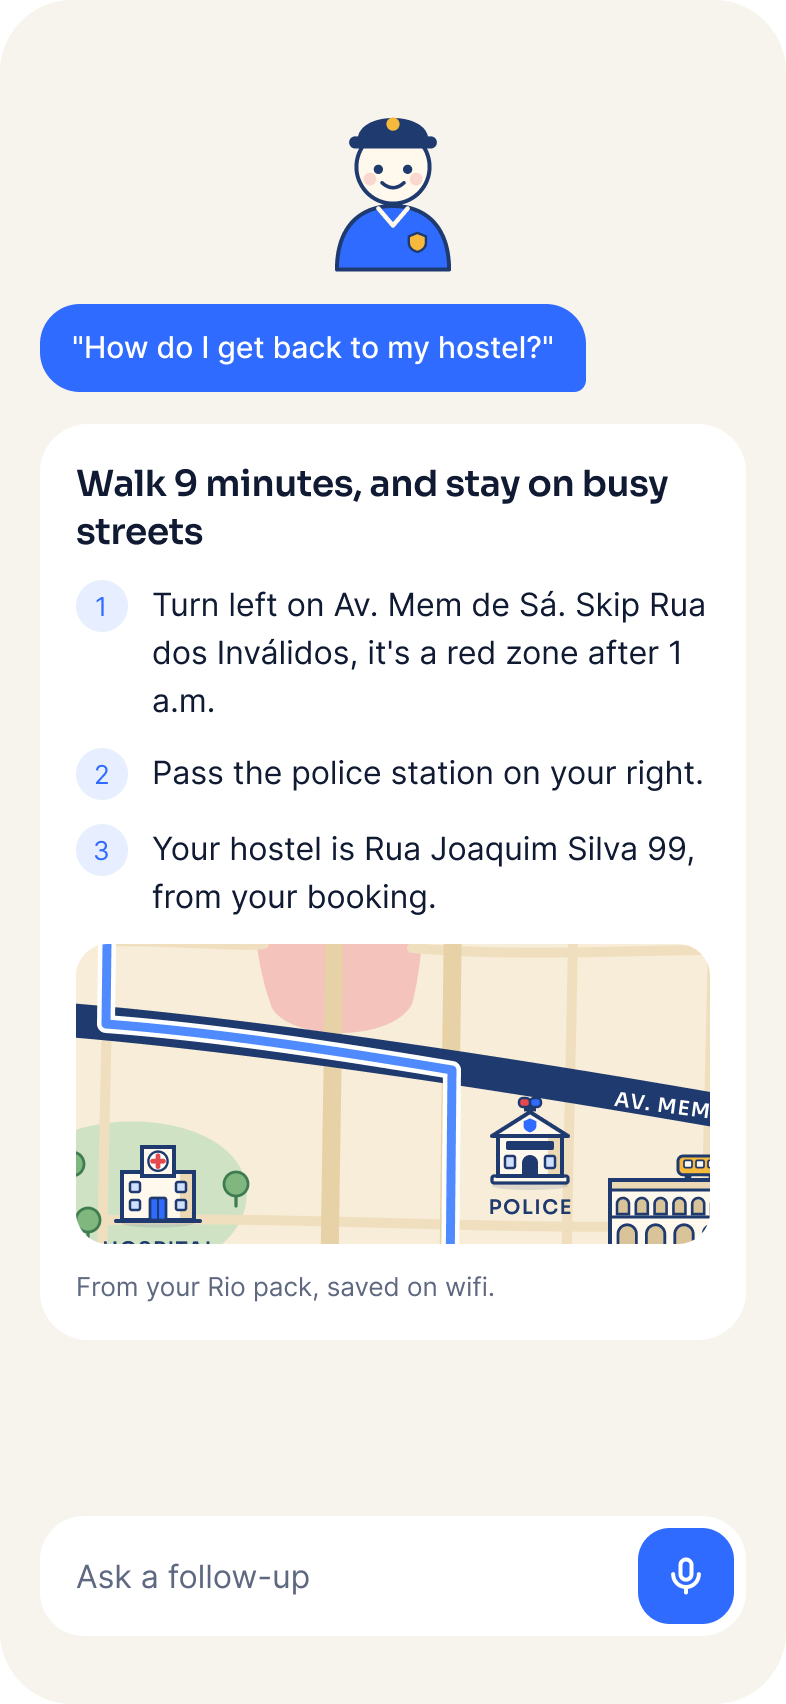
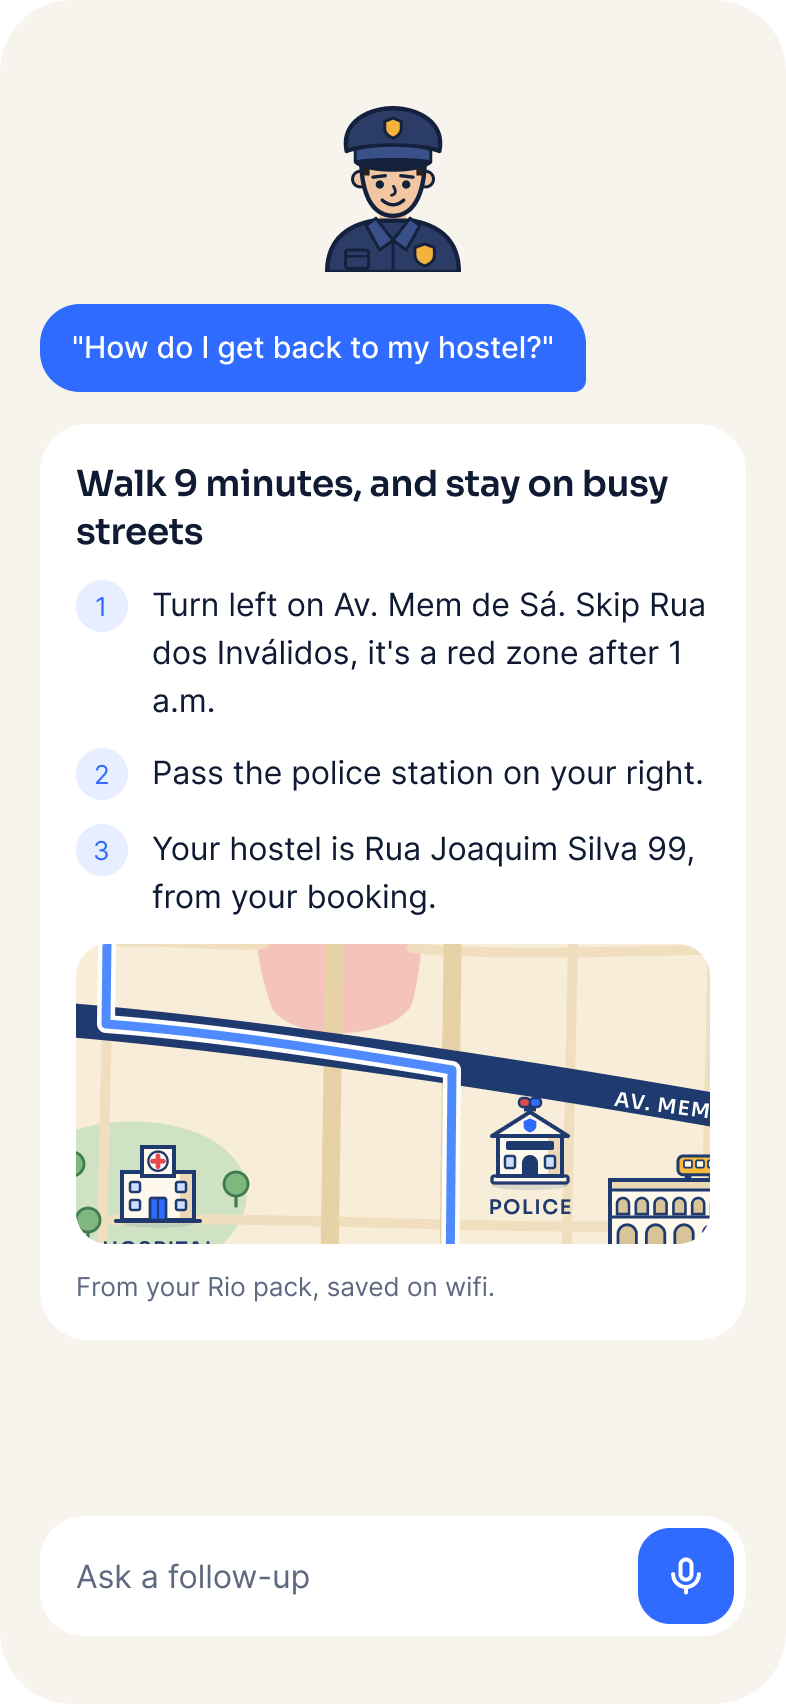
Chat with Beacon: cartoon cop, follow-ups, no subheadlines
- Ask Beacon is now a chat: bubbles, ready-made questions, and the last two
  exchanges are sent with each question so follow-ups make sense.
- BeaconCop: a classic cartoon police officer drawn in Compose (peaked cap,
  navy uniform, gold badges). He bobs, blinks, looks up while thinking and
  moves his mouth while answering. Tap him to hear the answer (device/Speaker,
  the phone's own text-to-speech, works offline).
- Remove screen subheadlines (onboarding steps, SOS sent).
- docs/design/cop: the cop's first-frame picture used for the ElevenLabs test.
- Demo page: updated screens.
- Tests: 45 passing (new: follow-ups carry the last two exchanges).

Changed region(s): [[0.3969, 0.0622, 0.5802, 0.1866]]

diff --git a/app/src/main/java/app/homeward/features/ask/BeaconCop.kt b/app/src/main/java/app/homeward/features/ask/BeaconCop.kt
@@ -29,8 +29,9 @@ import kotlin.math.sin
 // What the cop is doing right now.
 enum class CopMood { Idle, Thinking, Talking }
 
-// Beacon's face in the chat: a small friendly police officer, drawn in the same line style as the map
-// (Figma "Character/Beacon cop"). It is drawn here, piece by piece, so the pieces can move:
+// Beacon's face in the chat: a classic cartoon police officer (peaked cap with a gold badge, navy shirt
+// with a collar, pocket and badge, dark outlines), with a friendly face. Figma: "Character/Beacon cop".
+// It is drawn here, piece by piece, so it stays sharp at any size and the pieces can move:
 //   always   -> a gentle bob, and a blink every few seconds
 //   Thinking -> the eyes look up and three dots bounce
 //   Talking  -> the mouth opens and closes
@@ -43,52 +44,73 @@ fun BeaconCop(mood: CopMood, size: Dp = 88.dp, modifier: Modifier = Modifier) {
     val talk by loop.animateFloat(0f, 1f, infiniteRepeatable(tween(260, easing = LinearEasing)), label = "talk")
     val dots by loop.animateFloat(0f, 1f, infiniteRepeatable(tween(900, easing = LinearEasing)), label = "dots")
 
-    val navy = HomewardColors.MapNavy
-    val cream = Color(0xFFFFF8EC)
+    val line = Color(0xFF14213D)      // dark outline
+    val uniform = Color(0xFF2B3D66)   // navy shirt and cap
+    val uniformLight = Color(0xFF3A5088)
+    val skin = Color(0xFFF2C6A0)
+    val hair = Color(0xFF2B2118)
+    val gold = Color(0xFFF2B33D)
     Canvas(modifier.size(size * 64f / 72f, size)) {
         val unit = this.size.height / 72f
         scale(unit, unit, pivot = Offset.Zero) {
             translate(top = sin(bob * 2 * Math.PI).toFloat() * 0.8f) {
-                // Uniform
-                val body = Path().apply { moveTo(9f, 71f); cubicTo(9f, 53f, 19f, 45f, 32f, 45f); cubicTo(45f, 45f, 55f, 53f, 55f, 71f); close() }
-                drawPath(body, HomewardColors.Primary)
-                drawPath(body, navy, style = Stroke(2f, join = StrokeJoin.Round))
-                drawPath(Path().apply { moveTo(26f, 46f); lineTo(32f, 53f); lineTo(38f, 46f) }, cream, style = Stroke(2.2f, cap = StrokeCap.Round, join = StrokeJoin.Round))
-                // Badge on the chest
-                val badge = Path().apply { moveTo(42f, 56f); lineTo(45.5f, 57.4f); lineTo(45.5f, 60f); cubicTo(45.5f, 62f, 44f, 63.2f, 42f, 63.8f); cubicTo(40f, 63.2f, 38.5f, 62f, 38.5f, 60f); lineTo(38.5f, 57.4f); close() }
-                drawPath(badge, Color(0xFFF6B93B)); drawPath(badge, navy, style = Stroke(1.2f, join = StrokeJoin.Round))
+                val outline = Stroke(2.2f, cap = StrokeCap.Round, join = StrokeJoin.Round)
+                val thin = Stroke(1.5f, cap = StrokeCap.Round, join = StrokeJoin.Round)
 
-                // Head
-                drawCircle(cream, 15f, Offset(32f, 29f)); drawCircle(navy, 15f, Offset(32f, 29f), style = Stroke(2f))
-                // Cap
-                drawPath(Path().apply { moveTo(17.5f, 18f); cubicTo(17.5f, 6f, 46.5f, 6f, 46.5f, 18f); close() }, navy)
-                drawRoundRect(navy, Offset(14f, 16.5f), Size(36f, 5f), CornerRadius(2.5f))
-                drawCircle(Color(0xFFF6B93B), 2.7f, Offset(32f, 11.5f))
+                // Neck, then the uniform shirt over it
+                drawRect(skin, Offset(26.5f, 44f), Size(11f, 10f))
+                val shirt = Path().apply { moveTo(5f, 72f); cubicTo(5f, 59f, 13f, 53f, 24f, 51f); lineTo(40f, 51f); cubicTo(51f, 53f, 59f, 59f, 59f, 72f); close() }
+                drawPath(shirt, uniform); drawPath(shirt, line, style = outline)
+                drawLine(line, Offset(32f, 59f), Offset(32f, 72f), strokeWidth = 1.5f)
+                // Collar
+                val collarLeft = Path().apply { moveTo(25f, 50f); lineTo(32f, 59f); lineTo(26.5f, 63f); lineTo(21f, 53f); close() }
+                val collarRight = Path().apply { moveTo(39f, 50f); lineTo(32f, 59f); lineTo(37.5f, 63f); lineTo(43f, 53f); close() }
+                listOf(collarLeft, collarRight).forEach { drawPath(it, uniformLight); drawPath(it, line, style = thin) }
+                // Chest pocket and gold badge
+                drawRoundRect(line, Offset(12.5f, 63f), Size(9.5f, 7.5f), CornerRadius(1f), style = thin)
+                drawLine(line, Offset(12.5f, 65.6f), Offset(22f, 65.6f), strokeWidth = 1.2f)
+                val badge = Path().apply { moveTo(45f, 60.5f); lineTo(49f, 62f); lineTo(49f, 65f); cubicTo(49f, 67.4f, 47.2f, 68.8f, 45f, 69.5f); cubicTo(42.8f, 68.8f, 41f, 67.4f, 41f, 65f); lineTo(41f, 62f); close() }
+                drawPath(badge, gold); drawPath(badge, line, style = thin)
 
-                // Eyes: closed for a moment at the end of each blink cycle; looking up while thinking
+                // Ears, head, sideburns
+                listOf(18.6f, 45.4f).forEach { x -> drawCircle(skin, 3.2f, Offset(x, 34f)); drawCircle(line, 3.2f, Offset(x, 34f), style = thin) }
+                val head = Path().apply { moveTo(19f, 26f); cubicTo(19f, 41f, 24f, 49f, 32f, 49f); cubicTo(40f, 49f, 45f, 41f, 45f, 26f); close() }
+                drawPath(head, skin); drawPath(head, line, style = outline)
+                drawRect(hair, Offset(19.8f, 26f), Size(2.6f, 6.5f)); drawRect(hair, Offset(41.6f, 26f), Size(2.6f, 6.5f))
+
+                // Peaked cap: wide crown, band, dark visor, gold badge
+                val crown = Path().apply { moveTo(13f, 22.5f); cubicTo(10.5f, 10f, 23f, 5f, 32f, 5f); cubicTo(41f, 5f, 53.5f, 10f, 51f, 22.5f); cubicTo(44f, 19.5f, 20f, 19.5f, 13f, 22.5f); close() }
+                drawPath(crown, uniform); drawPath(crown, line, style = outline)
+                val band = Path().apply { moveTo(16.5f, 22f); cubicTo(22f, 19.6f, 42f, 19.6f, 47.5f, 22f); lineTo(47.5f, 27f); lineTo(16.5f, 27f); close() }
+                drawPath(band, uniformLight); drawPath(band, line, style = thin)
+                val visor = Path().apply { moveTo(16.5f, 27f); cubicTo(21f, 31.5f, 43f, 31.5f, 47.5f, 27f); cubicTo(42f, 25.6f, 22f, 25.6f, 16.5f, 27f); close() }
+                drawPath(visor, line); drawPath(visor, line, style = thin)
+                val capBadge = Path().apply { moveTo(32f, 9f); lineTo(35.4f, 10.4f); lineTo(35.4f, 13.2f); cubicTo(35.4f, 15.2f, 33.9f, 16.5f, 32f, 17.2f); cubicTo(30.1f, 16.5f, 28.6f, 15.2f, 28.6f, 13.2f); lineTo(28.6f, 10.4f); close() }
+                drawPath(capBadge, gold); drawPath(capBadge, line, style = thin)
+
+                // Face. Eyes close for a moment at the end of each blink cycle and look up while thinking.
                 val blinking = blinkClock > 0.95f
-                val eyeY = if (mood == CopMood.Thinking) 28f else 30f
-                listOf(26f, 38f).forEach { x ->
-                    if (blinking) drawLine(navy, Offset(x - 2f, eyeY), Offset(x + 2f, eyeY), strokeWidth = 1.8f, cap = StrokeCap.Round)
-                    else drawCircle(navy, 1.9f, Offset(x, eyeY))
+                val eyeY = if (mood == CopMood.Thinking) 35f else 36.2f
+                drawLine(line, Offset(23.8f, 33.2f), Offset(28.8f, 32.6f), strokeWidth = 1.7f, cap = StrokeCap.Round)
+                drawLine(line, Offset(35.2f, 32.6f), Offset(40.2f, 33.2f), strokeWidth = 1.7f, cap = StrokeCap.Round)
+                listOf(26.6f, 37.4f).forEach { x ->
+                    if (blinking) drawLine(line, Offset(x - 1.8f, eyeY), Offset(x + 1.8f, eyeY), strokeWidth = 1.7f, cap = StrokeCap.Round)
+                    else drawCircle(line, 1.7f, Offset(x, eyeY))
                 }
-                // Cheeks
-                drawCircle(HomewardColors.Red.copy(alpha = 0.18f), 2.6f, Offset(22.5f, 34f)); drawCircle(HomewardColors.Red.copy(alpha = 0.18f), 2.6f, Offset(41.5f, 34f))
-
-                // Mouth
+                drawPath(Path().apply { moveTo(32.2f, 37f); quadraticBezierTo(34f, 40f, 31.4f, 40.6f) }, line, style = Stroke(1.4f, cap = StrokeCap.Round))
                 when (mood) {
                     CopMood.Talking -> {
-                        val open = 1.2f + 2.6f * abs(sin(talk * Math.PI)).toFloat()
-                        drawOval(navy, Offset(32f - 3.2f, 36.5f - open), Size(6.4f, open * 2))
+                        val open = 1f + 2.2f * abs(sin(talk * Math.PI)).toFloat()
+                        drawOval(line, Offset(32f - 3f, 43.6f - open), Size(6f, open * 2))
                     }
-                    CopMood.Thinking -> drawLine(navy, Offset(29f, 37f), Offset(35f, 37f), strokeWidth = 1.8f, cap = StrokeCap.Round)
-                    CopMood.Idle -> drawPath(Path().apply { moveTo(27.5f, 35.5f); quadraticBezierTo(32f, 39.5f, 36.5f, 35.5f) }, navy, style = Stroke(1.8f, cap = StrokeCap.Round))
+                    CopMood.Thinking -> drawLine(line, Offset(29.2f, 44f), Offset(34.8f, 44f), strokeWidth = 1.7f, cap = StrokeCap.Round)
+                    CopMood.Idle -> drawPath(Path().apply { moveTo(27.6f, 42.6f); quadraticBezierTo(32f, 46.4f, 36.4f, 42.6f) }, line, style = Stroke(1.7f, cap = StrokeCap.Round))
                 }
             }
             // Three bouncing dots beside the head while thinking
             if (mood == CopMood.Thinking) repeat(3) { i ->
                 val lift = abs(sin((dots + i * 0.18f) * Math.PI)).toFloat() * 3f
-                drawCircle(HomewardColors.Primary, 1.8f, Offset(52f + i * 5f, 24f - lift))
+                drawCircle(HomewardColors.Primary, 1.8f, Offset(54f + i * 4.2f, 30f - lift))
             }
         }
     }
